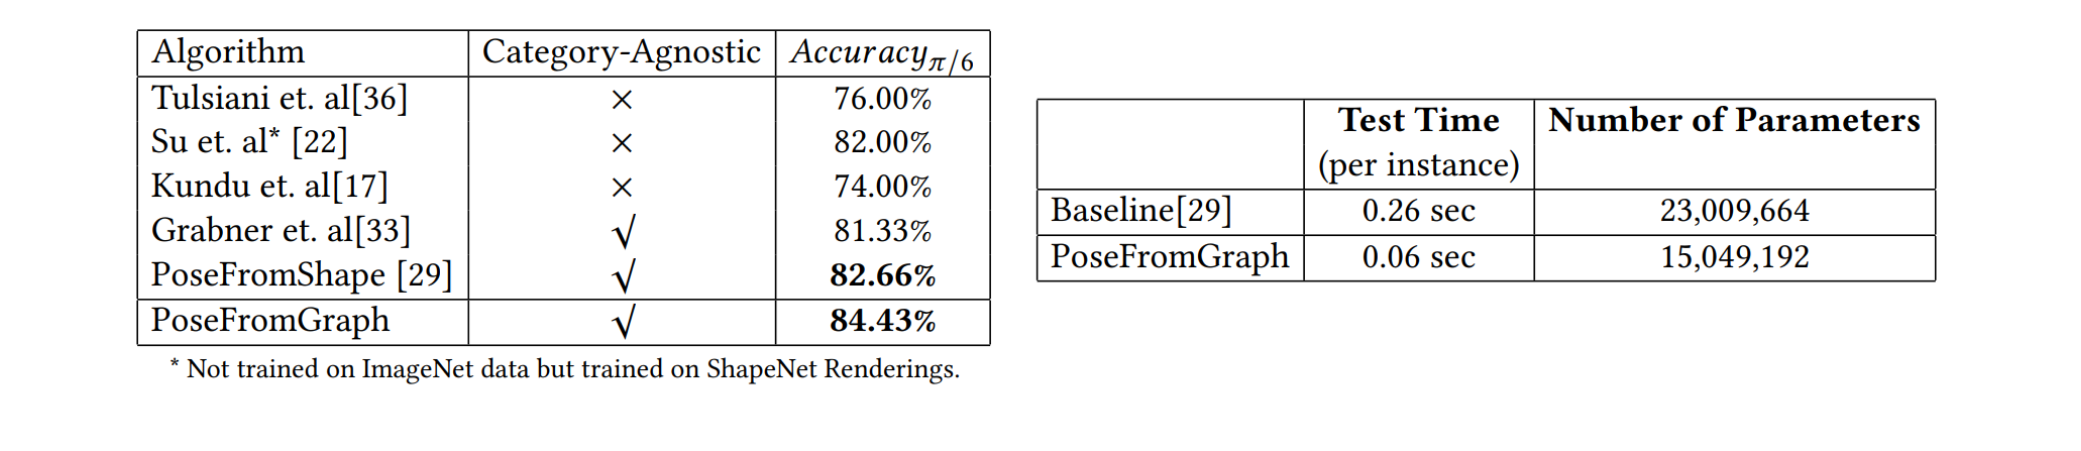
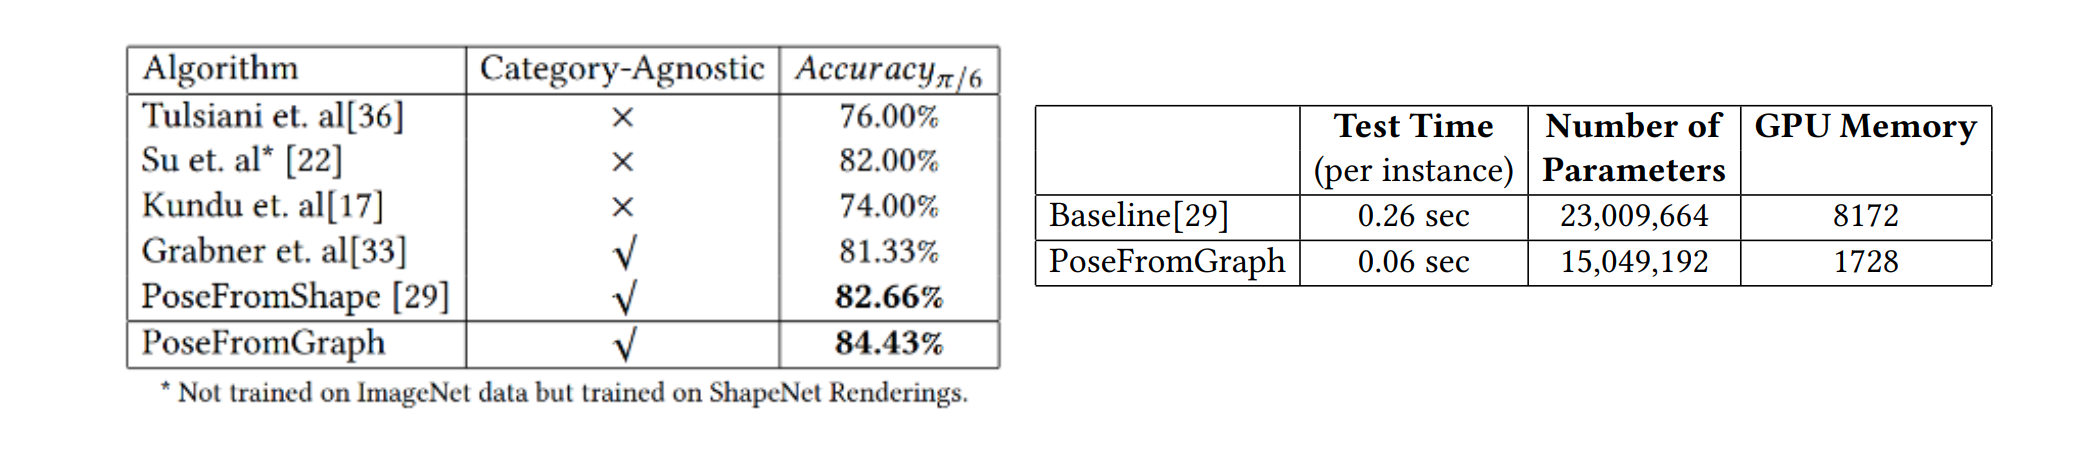
Updated project page

Changed region(s): [[0.0625, 0.0621, 0.9683, 0.9002]]

diff --git a/index.html b/index.html
@@ -47,7 +47,7 @@
 
         </div>
         <hr>
-        <p> With the rising need for reliable and real-time pose estimation in resource constrained environments such as smartphones, IoT devices, and head mounts, requires a compact and accurate pose estimation framework. To this end, we propose PoseFromGraph, a light weight 3D pose estimation framework that first generates a compact graph representation to estimate the pose of generic objects and subsequently overlays the 3D model utilizing the estimated pose. The inputs to the network are: a graph obtained by skeletonizing the 3D meshes using the prairie-fire analogy and the RGB image, and the output is the 3D pose of the object. The introduction of 3D shapes to the architecture makes our model category-agnostic. Unlike computationally expensive multi-view geometry and point-cloud based representations to estimate pose, our approach uses a message passing network to incorporate local neighborhood information at the same time maintaining global shape property in a graph by optimizing a neighborhood preserving objective. PoseFromGraph surpasses the state-of-the-art pose estimation methods in terms of accuracy achieving 84.43% on the Pascal3D dataset, and at the same time yields 11x and 4x reduction in the space and time complexity respectively. </p>
+        <p> With the rising need for reliable and real-time pose estimation in resource constrained environments such as smartphones, IoT devices, and head mounts, we need an efficient and a compact pose estimation framework. To this end, we propose PoseFromGraph, a light weight 3D pose estimation framework that first generates a compact graph representation to estimate the pose of generic objects and subsequently overlays the 3D model utilizing the estimated pose. The inputs to the network are: a graph obtained by skeletonizing the 3D meshes using the prairie-fire analogy and the RGB image, and the output is the 3D pose of the object. The introduction of 3D shapes to the architecture makes our model category-agnostic. Unlike computationally expensive multi-view geometry and point-cloud based representations to estimate pose, our approach uses a message passing network to incorporate local neighborhood information at the same time maintaining global shape property in a graph by optimizing a neighborhood preserving objective. PoseFromGraph surpasses the state-of-the-art pose estimation methods in terms of accuracy achieving 84.43% on the Pascal3D dataset, and at the same time yields 4x reduction in the space and time complexity. </p>
     </div>
 
     <div class="section">
@@ -73,8 +73,7 @@
 
         <hr>
         <p>
-            We use skeletonisation to reduce the point cloud of any given object to a simple graph. These skeletons provide a compact and expressive shape abstraction to 3D shapes and volume while reducing the memory and computational requirements. The graph pruning reduces the number of nodes in a graph by approximately 40% on PASCAL3D dataset.
-            These graphs are invariant under transformations such as rotations and translations, and devoid of unwanted noise in the graph in the form of parallel edges, loops and short branches.
+            We use skeletonisation to reduce the point cloud of any given object to a simple graph. These skeletons provide a compact and expressive shape abstraction to 3D shapes and volume while reducing the memory and computational requirements. These graphs are invariant under transformations such as rotations and translations, and devoid of unwanted noise in the graph in the form of parallel edges, loops and short branches.
 
 
 
@@ -100,7 +99,7 @@
         <hr>
         <p>
             We perform our evaluation on the Pascal3D+ dataset.
-            We achieve state-of-the-art accuracy while reducing the memory and time requirements by 35% and 77% respectively. 
+            We achieve state-of-the-art accuracy while reducing the memory and time requirements by approximately 4 times. 
         </p>
 
 	    <div class="row justify-content-center">
